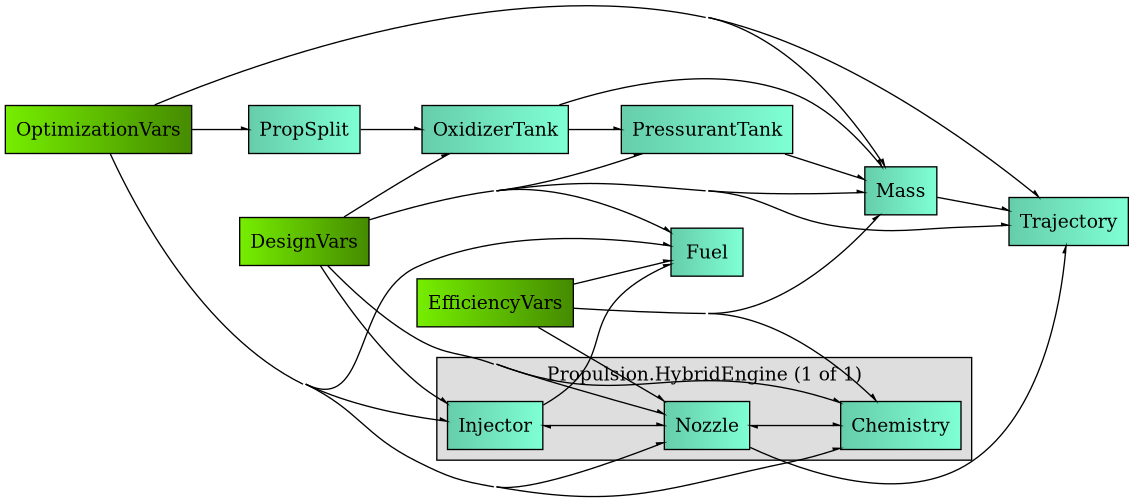
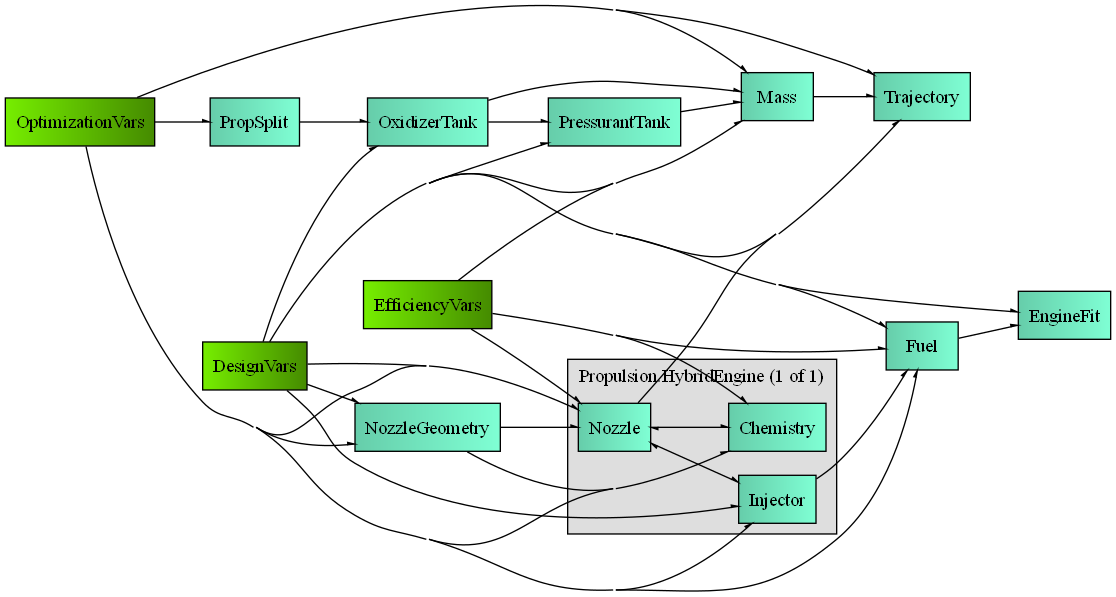
Size tanks to the outer diameter and fit the engine in the bore
The tanks are structural and form the airframe skin, so they now take
outer_rocket_diameter_m directly; the per-tank diam_m inputs are gone.
The engine is not structural and sits inside the bore: an optimizer
constraint and a post-run check keep the fuel grain within
inner_rocket_diameter_m, and the nozzle exit check now compares against
the inner diameter too.

Remove clearance_m from the inputs, config, validation, model and the
diameter sweep.

Also drop the section banners from constants.toml and materials.toml,
and regenerate the rocket output and graphs.

diff --git a/modules/BEARS_Rocket/group_rocket.py b/modules/BEARS_Rocket/group_rocket.py
@@ -1,5 +1,5 @@
 #region Imports
-from openmdao.api import Group, IndepVarComp
+from openmdao.api import Group, IndepVarComp, ExecComp
 
 from ..BEARS_Chem      import BEARS_Chem
 from ..BEARS_Atmo      import BEARS_Atm
@@ -43,19 +43,17 @@ class RocketGroup(Group):
 		ivc.add_output("g_target_thrust",           val=3000.0, units="N")
 		ivc.add_output("g_target_chamber_pressure", val=30.0,   units="bar")
 
-		# Airframe diameters: the tanks fit the bore, the skin sets the drag
+		# Airframe diameters: the tanks are structural and form the skin, so
+		# they take the outer diameter, which also sets the drag. The engine
+		# is not structural and sits inside the bore, the inner diameter
 		ivc.add_output("g_inner_diameter",       val=0.12,   units="m")
 		ivc.add_output("g_outer_diameter",       val=0.125,  units="m")
-
-		# Clearance for component mounting
-		ivc.add_output("g_clearance",            val=0.002,  units="m")
 
 		# - Oxidizer tank
 		# NOTE: the tank component expects pressure in SI Pa units,
 		#       here we specify the pressure in units of bar used by the team
 		#       and let MDAO convert automatically on component interface
 		ivc.add_output("tank_pressure",          val=70,     units="bar")
-		ivc.add_output("tank_diam",              val=0.15,   units="m")
 		ivc.add_output("tank_safety_factor",     val=2.0)
 		ivc.add_output("tank_ullage_fraction",   val=0.1)
 		ivc.add_output("tank_boss_opening",      val=0.02,   units="m")
@@ -65,7 +63,6 @@ class RocketGroup(Group):
 
 		# - Pressurant tank
 		ivc.add_output("press_pressure",         val=200,    units="bar")
-		ivc.add_output("press_diam",             val=0.15,   units="m")
 		ivc.add_output("press_safety_factor",    val=2.0)
 		ivc.add_output("press_boss_opening",     val=0.02,   units="m")
 		ivc.add_output("press_boss_len_fwd",     val=0.015,  units="m")
@@ -117,6 +114,17 @@ class RocketGroup(Group):
 
 		self.add_subsystem("Mass", MassComponent())
 
+		# Radial room left between the fuel grain and the airframe bore
+		self.add_subsystem(
+			"EngineFit",
+			ExecComp(
+				"grain_margin = d_inner - d_grain",
+				grain_margin = {"val": 0.05, "units": "m"},
+				d_inner      = {"val": 0.12, "units": "m"},
+				d_grain      = {"val": 0.07, "units": "m"},
+			),
+		)
+
 		self.add_subsystem(
 			"Trajectory",
 			TrajectoryComponent(atm=atm, aero=self.options["cfg_aero"]),
@@ -127,7 +135,7 @@ class RocketGroup(Group):
 		#region Connections
 		# - Oxidizer tank
 		self.connect("DesignVars.tank_pressure",           "Propulsion.tank_pressure")
-		self.connect("DesignVars.tank_diam",               "Propulsion.tank_diam")
+		self.connect("DesignVars.g_outer_diameter",        "Propulsion.tank_diam")
 		self.connect("DesignVars.tank_safety_factor",      "Propulsion.tank_safety_factor")
 		self.connect("DesignVars.tank_ullage_fraction",    "Propulsion.tank_ullage_frac")
 		self.connect("DesignVars.tank_boss_opening",       "Propulsion.tank_boss_opening")
@@ -137,7 +145,7 @@ class RocketGroup(Group):
 
 		# - Pressurant tank
 		self.connect("DesignVars.press_pressure",          "Propulsion.press_pressure")
-		self.connect("DesignVars.press_diam",              "Propulsion.press_diam")
+		self.connect("DesignVars.g_outer_diameter",        "Propulsion.press_diam")
 		self.connect("DesignVars.press_safety_factor",     "Propulsion.press_safety_factor")
 		self.connect("DesignVars.press_boss_opening",      "Propulsion.press_boss_opening")
 		self.connect("DesignVars.press_boss_len_fwd",      "Propulsion.press_boss_len_fwd")
@@ -157,6 +165,10 @@ class RocketGroup(Group):
 		# - Nozzle
 		self.connect("DesignVars.nozzle_exit_diam",        "Propulsion.nozzle_exit_diam")
 		self.connect("DesignVars.conical_nozzle_half_angle", "Propulsion.conical_nozzle_half_angle")
+
+		# - Engine fit
+		self.connect("DesignVars.g_inner_diameter",        "EngineFit.d_inner")
+		self.connect("Propulsion.fuel_grain_diam",         "EngineFit.d_grain")
 
 		# - Mass
 		self.connect("DesignVars.g_non_propulsion_mass",   "Mass.non_propulsion_mass")

diff --git a/modules/BEARS_Rocket/prob_rocket.py b/modules/BEARS_Rocket/prob_rocket.py
@@ -160,6 +160,14 @@ class RocketLaunchProblem(Problem):
 			units  = "bar",
 		)
 
+		# The fuel grain has to fit inside the airframe bore
+		self.model.add_constraint(
+			"EngineFit.grain_margin",
+			lower = 0.0,
+			ref   = 0.01,
+			units = "m",
+		)
+
 		# Injector pressure drop safety margin
 		self.model.add_constraint(
 			"Propulsion.injector_delta_p",
@@ -194,14 +202,12 @@ class RocketLaunchProblem(Problem):
 		self.set_val("DesignVars.g_target_chamber_pressure", gl.target_chamber_pressure_bar, units="bar")
 		self.set_val("DesignVars.g_inner_diameter",          gl.inner_rocket_diameter_m,     units="m")
 		self.set_val("DesignVars.g_outer_diameter",          gl.outer_rocket_diameter_m,     units="m")
-		self.set_val("DesignVars.g_clearance",               gl.clearance_m,                 units="m")
 
 		# The non-propulsion mass is given for the configured airframe
 		self.set_val("Mass.ref_diameter", gl.outer_rocket_diameter_m, units="m")
 
 		# Oxidizer tank
 		self.set_val("DesignVars.tank_pressure",        ox.pressure_bar,      units="bar")
-		self.set_val("DesignVars.tank_diam",            ox.diam_m,            units="m")
 		self.set_val("DesignVars.tank_safety_factor",   ox.safety_factor)
 		self.set_val("DesignVars.tank_ullage_fraction", ox.ullage_fraction)
 		self.set_val("DesignVars.tank_boss_opening",    ox.boss_opening_m,    units="m")
@@ -211,7 +217,6 @@ class RocketLaunchProblem(Problem):
 
 		# Pressurant tank
 		self.set_val("DesignVars.press_pressure",       pr.pressure_bar,      units="bar")
-		self.set_val("DesignVars.press_diam",           pr.diam_m,            units="m")
 		self.set_val("DesignVars.press_safety_factor",  pr.safety_factor)
 		self.set_val("DesignVars.press_boss_opening",   pr.boss_opening_m,    units="m")
 		self.set_val("DesignVars.press_boss_len_fwd",   pr.boss_length_fwd_m, units="m")

diff --git a/modules/BEARS_Rocket/checks.py b/modules/BEARS_Rocket/checks.py
@@ -55,14 +55,29 @@ def check_liftoff_twr(prob: Problem) -> tuple[CheckResult, ...]:
 	return tuple(issues)
 
 def check_nozzle_exit_diameter(prob: Problem) -> tuple[CheckResult, ...]:
+	"""The nozzle is part of the engine, so it has to fit the airframe bore"""
 	d_exit = prob.get_val("DesignVars.nozzle_exit_diam", units="m")[0]
-	d_body = prob.get_val("DesignVars.g_outer_diameter", units="m")[0]
+	d_bore = prob.get_val("DesignVars.g_inner_diameter", units="m")[0]
 
-	if d_exit > d_body:
+	if d_exit > d_bore:
 		return (CheckResult(
 			"warning",
 			f"Nozzle exit diameter ({d_exit * 1e3:.1f} mm) is larger than the "
-			f"rocket outer diameter ({d_body * 1e3:.1f} mm)"
+			f"rocket inner diameter ({d_bore * 1e3:.1f} mm)"
+		),)
+
+	return ()
+
+def check_fuel_grain_diameter(prob: Problem) -> tuple[CheckResult, ...]:
+	"""The fuel grain has to fit the airframe bore"""
+	d_grain = prob.get_val("Propulsion.fuel_grain_diam",  units="m")[0]
+	d_bore  = prob.get_val("DesignVars.g_inner_diameter", units="m")[0]
+
+	if d_grain > d_bore:
+		return (CheckResult(
+			"error",
+			f"Fuel grain diameter ({d_grain * 1e3:.1f} mm) is larger than the "
+			f"rocket inner diameter ({d_bore * 1e3:.1f} mm)"
 		),)
 
 	return ()
@@ -167,6 +182,7 @@ DEFAULT_ROCKET_CHECKS: tuple[CheckFn, ...] = (
 	check_injector_dp,
 	check_liftoff_twr,
 	check_nozzle_exit_diameter,
+	check_fuel_grain_diameter,
 	check_engine_targets,
 	check_mass_balance,
 	check_target_apogee,

diff --git a/modules/BEARS_Rocket/sweep.py b/modules/BEARS_Rocket/sweep.py
@@ -27,23 +27,19 @@ def sweep_diameters(
 ) -> list[DiameterSweepPoint]:
 	"""
 	Re-optimize over a range of outer airframe diameters. The airframe wall
-	thickness is held at its configured value, so the bore and the tanks grow
-	with the outer diameter
+	thickness is held at its configured value, so the bore grows with the
+	outer diameter. The tanks take the outer diameter
 	"""
 	results = []
-	clearance = prob.get_val("DesignVars.g_clearance", units="m")[0]
 	d_inner_0 = prob.get_val("DesignVars.g_inner_diameter", units="m")[0]
 	d_outer_0 = prob.get_val("DesignVars.g_outer_diameter", units="m")[0]
 	wall      = d_outer_0 - d_inner_0
 
 	for d in diameters_m:
 		d_inner = d - wall
-		d_tank  = d_inner - 2.0 * clearance
 
 		prob.set_val("DesignVars.g_outer_diameter", d,       units="m")
 		prob.set_val("DesignVars.g_inner_diameter", d_inner, units="m")
-		prob.set_val("DesignVars.tank_diam",        d_tank,  units="m")
-		prob.set_val("DesignVars.press_diam",       d_tank,  units="m")
 
 		if quiet: prob.driver.opt_settings["disp"] = False
 

diff --git a/modules/Config/validation.py b/modules/Config/validation.py
@@ -92,24 +92,6 @@ def validate_rocket_config(cfg: RocketConfig) -> None:
 			f"global.outer_rocket_diameter_m ({gl.outer_rocket_diameter_m} m)"
 		)
 
-	if gl.clearance_m < 0:
-		errors.append(f"global.clearance_m must be >= 0 (got {gl.clearance_m})")
-
-	# The tanks sit inside the airframe bore
-	if ox.diam_m + 2 * gl.clearance_m > gl.inner_rocket_diameter_m:
-		errors.append(
-			f"oxidizer_tank diameter ({ox.diam_m} m)"
-			f" + clearance ({2 * gl.clearance_m} m) "
-			f"exceeds inner airframe diameter ({gl.inner_rocket_diameter_m} m)"
-		)
-
-	if pr.diam_m + 2 * gl.clearance_m > gl.inner_rocket_diameter_m:
-		errors.append(
-			f"pressurizer_tank diameter ({pr.diam_m} m)"
-			f" + clearance ({2 * gl.clearance_m} m) "
-			f"exceeds inner airframe diameter ({gl.inner_rocket_diameter_m} m)"
-		)
-
 	# Drag table
 	aero = cfg.cfg_aero
 	if not aero.drag_mach or len(aero.drag_mach) != len(aero.drag_cd):

diff --git a/modules/Config/records.py b/modules/Config/records.py
@@ -11,9 +11,8 @@ class GlobalConfig:
 	target_altitude_m           : float # [m]
 	target_thrust_N             : float # [N]
 	target_chamber_pressure_bar : float # [bar]
-	inner_rocket_diameter_m     : float # Airframe bore, holds the tanks [m]
-	outer_rocket_diameter_m     : float # Airframe skin, sets the drag area [m]
-	clearance_m                 : float # [m]
+	inner_rocket_diameter_m     : float # Airframe bore, holds the engine [m]
+	outer_rocket_diameter_m     : float # Airframe skin, the tank diameter and drag area [m]
 
 @dataclass(frozen=True)
 class AerodynamicsConfig:
@@ -23,7 +22,6 @@ class AerodynamicsConfig:
 @dataclass(frozen=True)
 class TankConfig:
 	pressure_bar            : float # [bar]
-	diam_m                  : float # [m]
 	safety_factor           : float
 	ullage_fraction         : float = 0.0
 	boss_opening_m          : float = 0.02  # [m]
